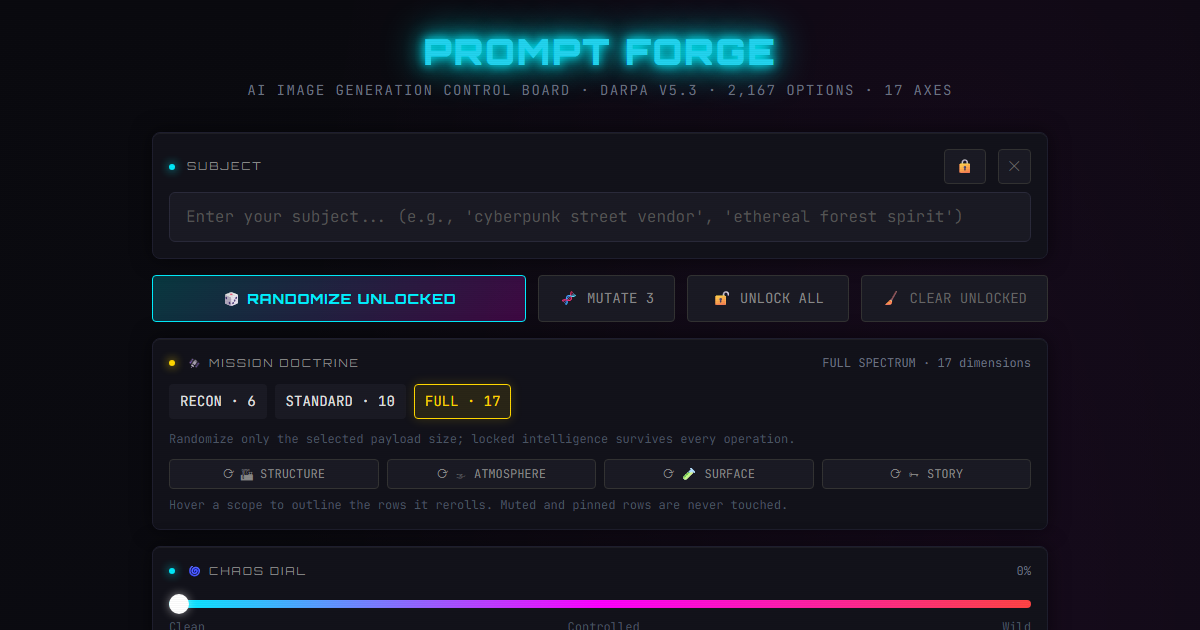
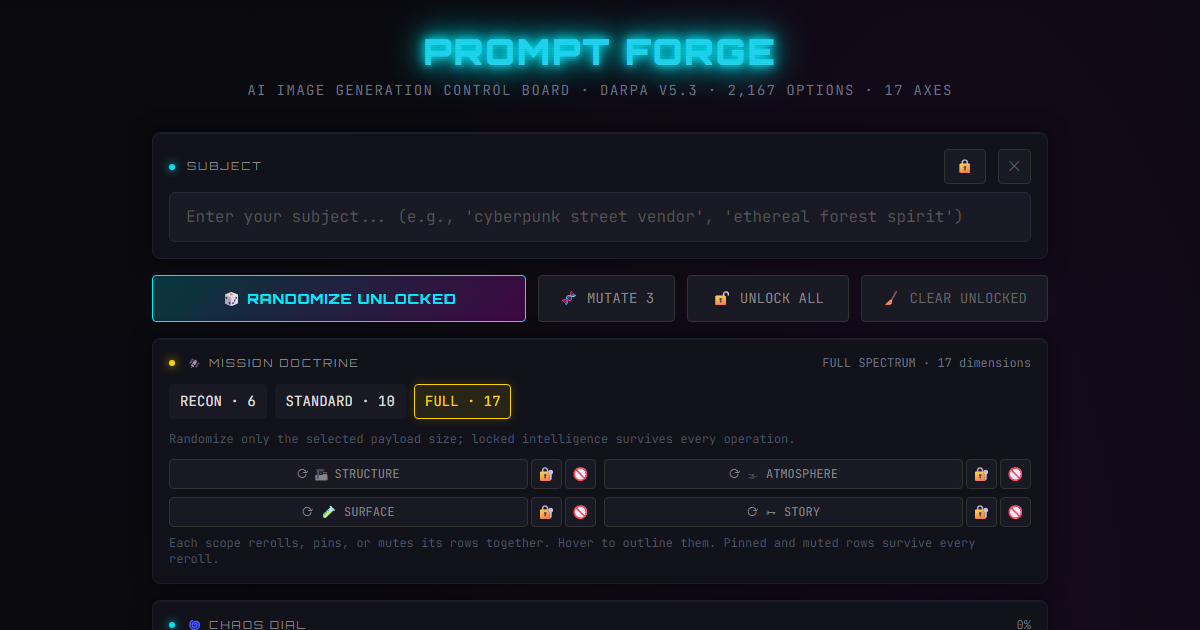
Give each cluster scope pin and mute, not just reroll
A scope could only roll. If you wanted an image carrying no story at all
— no narrative, no action, no figure, no wardrobe — you muted four rows
by hand and hoped you had not missed one, every time.

Each scope now carries the same three verbs a single row does: reroll,
pin, mute. What you can do to one axis you can do to four at once, which
is what a scope was for.

Both operators are toggles. Clicking the engaged one returns the scope to
live, so a scope cannot be stranded held and no fifth control is needed
to undo the other two.

The awkward case is a scope holding a blank row, since setCategoryState
refuses to pin a blank — pinning would otherwise leave half a scope live
and the button lying about what it did. Such rows are held blank instead,
which is not a special case but the rule the board already follows: a
lock on an empty row presents as muting it. clusterStateOf reads `pinned`
as "nothing here is still live" for the same reason, so a mixed scope
reads as mixed and neither operator claims it.

Layout: three controls across four scopes does not fit four-across until
2xl. Below that it is two columns, which is roomier than the four it
replaced. At the widest breakpoint the longest label clears its column by
seven pixels — it was one before the operators were narrowed, and emoji
metrics differ between platforms, so that padding is load-bearing rather
than cosmetic.

Verified: muting Story survives randomize, its own reroll, and a
[…]

Changed region(s): [[0.1233, 0.7238, 0.8633, 1.0], [0.7708, 0.7238, 0.8633, 0.8444], [0.4625, 0.9952, 0.555, 1.0]]

diff --git a/index.html b/index.html
@@ -238,6 +238,38 @@
       box-shadow: 0 0 8px rgba(124, 138, 168, 0.6);
     }
 
+    /*
+     * A scope carries the same three verbs a single row does — reroll, pin,
+     * mute — so what you can do to one axis you can do to four at once.
+     * The reroll button takes the remaining width; the two operators stay a
+     * fixed glyph wide.
+     */
+    .cluster-group {
+      display: flex;
+      gap: 3px;
+      min-width: 0;
+    }
+
+    .cluster-group .cluster-btn {
+      flex: 1 1 auto;
+      min-width: 0;
+      overflow: hidden;
+      text-overflow: ellipsis;
+      white-space: nowrap;
+    }
+
+    /*
+     * Kept narrow deliberately. At the four-across breakpoint the longest label
+     * (ATMOSPHERE) clears its column by only a few pixels, and emoji metrics
+     * differ between platforms — the padding here is the margin that keeps it
+     * from truncating on someone else's machine.
+     */
+    .cluster-op {
+      flex: 0 0 auto;
+      padding: 6px 5px;
+      line-height: 1;
+    }
+
     /* Cluster hover preview: show the blast radius before committing. */
     .cluster-btn.previewing {
       color: var(--neon-magenta);
@@ -711,13 +743,29 @@
         <button class="btn doctrine-btn active" id="density-full" onclick="setPayloadDensity('full')">FULL · 17</button>
       </div>
       <p class="text-xs text-gray-600 mb-3">Randomize only the selected payload size; locked intelligence survives every operation.</p>
-      <div class="grid grid-cols-2 md:grid-cols-4 gap-2">
-        <button class="btn btn-random text-xs cluster-btn" id="cluster-structure" onclick="rerollCluster('structure')" onmouseenter="previewCluster('structure')" onmouseleave="clearClusterPreview()" onfocus="previewCluster('structure')" onblur="clearClusterPreview()">⟳ 🏗 STRUCTURE</button>
-        <button class="btn btn-random text-xs cluster-btn" id="cluster-atmosphere" onclick="rerollCluster('atmosphere')" onmouseenter="previewCluster('atmosphere')" onmouseleave="clearClusterPreview()" onfocus="previewCluster('atmosphere')" onblur="clearClusterPreview()">⟳ 🌫 ATMOSPHERE</button>
-        <button class="btn btn-random text-xs cluster-btn" id="cluster-surface" onclick="rerollCluster('surface')" onmouseenter="previewCluster('surface')" onmouseleave="clearClusterPreview()" onfocus="previewCluster('surface')" onblur="clearClusterPreview()">⟳ 🧪 SURFACE</button>
-        <button class="btn btn-random text-xs cluster-btn" id="cluster-story" onclick="rerollCluster('story')" onmouseenter="previewCluster('story')" onmouseleave="clearClusterPreview()" onfocus="previewCluster('story')" onblur="clearClusterPreview()">⟳ 🗝 STORY</button>
+      <div class="grid grid-cols-1 sm:grid-cols-2 2xl:grid-cols-4 gap-2">
+        <div class="cluster-group" data-cluster="structure">
+          <button class="btn btn-random text-xs cluster-btn" id="cluster-structure" onclick="rerollCluster('structure')" onmouseenter="previewCluster('structure')" onmouseleave="clearClusterPreview()" onfocus="previewCluster('structure')" onblur="clearClusterPreview()">⟳ 🏗 STRUCTURE</button>
+          <button class="btn btn-lock cluster-op" id="cluster-lock-structure" onclick="lockCluster('structure')" onmouseenter="previewCluster('structure')" onmouseleave="clearClusterPreview()" onfocus="previewCluster('structure')" onblur="clearClusterPreview()">🔐</button>
+          <button class="btn btn-mute cluster-op" id="cluster-mute-structure" onclick="muteCluster('structure')" onmouseenter="previewCluster('structure')" onmouseleave="clearClusterPreview()" onfocus="previewCluster('structure')" onblur="clearClusterPreview()">🚫</button>
+        </div>
+        <div class="cluster-group" data-cluster="atmosphere">
+          <button class="btn btn-random text-xs cluster-btn" id="cluster-atmosphere" onclick="rerollCluster('atmosphere')" onmouseenter="previewCluster('atmosphere')" onmouseleave="clearClusterPreview()" onfocus="previewCluster('atmosphere')" onblur="clearClusterPreview()">⟳ 🌫 ATMOSPHERE</button>
+          <button class="btn btn-lock cluster-op" id="cluster-lock-atmosphere" onclick="lockCluster('atmosphere')" onmouseenter="previewCluster('atmosphere')" onmouseleave="clearClusterPreview()" onfocus="previewCluster('atmosphere')" onblur="clearClusterPreview()">🔐</button>
+          <button class="btn btn-mute cluster-op" id="cluster-mute-atmosphere" onclick="muteCluster('atmosphere')" onmouseenter="previewCluster('atmosphere')" onmouseleave="clearClusterPreview()" onfocus="previewCluster('atmosphere')" onblur="clearClusterPreview()">🚫</button>
+        </div>
+        <div class="cluster-group" data-cluster="surface">
+          <button class="btn btn-random text-xs cluster-btn" id="cluster-surface" onclick="rerollCluster('surface')" onmouseenter="previewCluster('surface')" onmouseleave="clearClusterPreview()" onfocus="previewCluster('surface')" onblur="clearClusterPreview()">⟳ 🧪 SURFACE</button>
+          <button class="btn btn-lock cluster-op" id="cluster-lock-surface" onclick="lockCluster('surface')" onmouseenter="previewCluster('surface')" onmouseleave="clearClusterPreview()" onfocus="previewCluster('surface')" onblur="clearClusterPreview()">🔐</button>
+          <button class="btn btn-mute cluster-op" id="cluster-mute-surface" onclick="muteCluster('surface')" onmouseenter="previewCluster('surface')" onmouseleave="clearClusterPreview()" onfocus="previewCluster('surface')" onblur="clearClusterPreview()">🚫</button>
+        </div>
+        <div class="cluster-group" data-cluster="story">
+          <button class="btn btn-random text-xs cluster-btn" id="cluster-story" onclick="rerollCluster('story')" onmouseenter="previewCluster('story')" onmouseleave="clearClusterPreview()" onfocus="previewCluster('story')" onblur="clearClusterPreview()">⟳ 🗝 STORY</button>
+          <button class="btn btn-lock cluster-op" id="cluster-lock-story" onclick="lockCluster('story')" onmouseenter="previewCluster('story')" onmouseleave="clearClusterPreview()" onfocus="previewCluster('story')" onblur="clearClusterPreview()">🔐</button>
+          <button class="btn btn-mute cluster-op" id="cluster-mute-story" onclick="muteCluster('story')" onmouseenter="previewCluster('story')" onmouseleave="clearClusterPreview()" onfocus="previewCluster('story')" onblur="clearClusterPreview()">🚫</button>
+        </div>
       </div>
-      <p class="text-xs text-gray-600 mt-2" id="clusterHint">Hover a scope to outline the rows it rerolls. Muted and pinned rows are never touched.</p>
+      <p class="text-xs text-gray-600 mt-2" id="clusterHint">Each scope rerolls, pins, or mutes its rows together. Hover to outline them. Pinned and muted rows survive every reroll.</p>
     </div>
 
     <!-- Chaos Dial & Output Mode -->
@@ -2794,6 +2842,11 @@
         muteBtn.classList.toggle('active', state === 'muted');
         muteBtn.title = MUTE_BUTTON_TITLES[state];
       }
+
+      // A scope's state is derived from its rows, so changing one row can
+      // change what its scope reads as. Reconcile here rather than asking every
+      // caller to remember.
+      syncClusterButtons();
     }
 
     function rigChipTitle(key, state) {
@@ -2874,12 +2927,69 @@
     // CLUSTER SCOPES
     // ============================================
 
+    /*
+     * A scope reads as one of the three rig states, or as mixed.
+     *
+     * `pinned` means nothing in the scope is still live — every row is held,
+     * whether at a value or blank. That is the same equivalence the rest of the
+     * board uses: locking a row that holds no value presents as muting it.
+     */
+    function clusterStateOf(name) {
+      const keys = (categoryClusters[name] || []).filter(key => categories[key]);
+      if (!keys.length) return 'live';
+      const states = keys.map(key => categoryStateOf(categories[key]));
+      if (states.every(state => state === 'muted')) return 'muted';
+      if (states.every(state => state === 'live')) return 'live';
+      if (states.every(state => state !== 'live')) return 'pinned';
+      return 'mixed';
+    }
+
+    function setClusterState(name, target) {
+      const keys = (categoryClusters[name] || []).filter(key => categories[key]);
+      // Clicking the engaged operator releases the scope, so one button both
+      // applies and undoes and no scope can be stranded held.
+      const next = clusterStateOf(name) === target ? 'live' : target;
+      keys.forEach(key => {
+        // setCategoryState refuses to pin a blank row, which would otherwise
+        // leave half a scope live. Hold it blank instead — same thing the lock
+        // button does to a single empty row.
+        if (next === 'pinned' && !categories[key].value) setCategoryState(key, 'muted');
+        else setCategoryState(key, next);
+      });
+      syncClusterButtons();
+      renderRig();
+      updatePreview();
+    }
+
+    function lockCluster(name) { setClusterState(name, 'pinned'); }
+    function muteCluster(name) { setClusterState(name, 'muted'); }
+
     function syncClusterButtons() {
       Object.entries(categoryClusters).forEach(([name, keys]) => {
+        const members = keys.filter(key => categories[key]);
+        const labels = members.map(key => categories[key].label);
+        const noun = `${labels.length} ${labels.length === 1 ? 'axis' : 'axes'}`;
+        const list = labels.join(' · ');
+        const state = clusterStateOf(name);
+
         const btn = document.getElementById(`cluster-${name}`);
-        if (!btn) return;
-        const labels = keys.filter(key => categories[key]).map(key => categories[key].label);
-        btn.title = `Reroll ${labels.length} ${labels.length === 1 ? 'axis' : 'axes'}: ${labels.join(' · ')}`;
+        if (btn) btn.title = `Reroll ${noun}: ${list}`;
+
+        const lockBtn = document.getElementById(`cluster-lock-${name}`);
+        if (lockBtn) {
+          lockBtn.classList.toggle('active', state === 'pinned');
+          lockBtn.title = state === 'pinned'
+            ? `Held: ${list} — click to return the scope to live`
+            : `Hold ${noun} at their current values: ${list}`;
+        }
+
+        const muteBtn = document.getElementById(`cluster-mute-${name}`);
+        if (muteBtn) {
+          muteBtn.classList.toggle('active', state === 'muted');
+          muteBtn.title = state === 'muted'
+            ? `Muted: ${list} — click to return the scope to live`
+            : `Blank ${noun} and hold them blank, so the image carries none of them: ${list}`;
+        }
       });
     }
 

diff --git a/CHANGELOG.md b/CHANGELOG.md
@@ -1,5 +1,12 @@
 Changelog
 All notable changes to Prompt Forge are documented here.
+[Unreleased]
+Added
+Added pin and mute operators to each cluster scope. A scope previously only rerolled; it now carries the same three verbs a single row does, so what you can do to one axis you can do to four at once. Muting Story holds narrative, action, figure and wardrobe blank through every operation, which is how you build an image that carries no story at all.
+Both operators are toggles — clicking the engaged one returns the scope to live, so no scope can be stranded held.
+Locking a scope that contains a blank row holds that row blank rather than refusing, matching the existing rule that locking an empty row presents as muting it.
+Cluster operator titles are generated from live membership and current state, so a label cannot drift from what the button does.
+
 [5.3.0] — 2026-07-26
 Added
 Added eight Forge Cards in a warm-figure register the first twenty had no room for: Komorebi, Negative Fill, Waterline, Salt and Gold, Poolside Noon, Rim Light Confession, Light Through Water, and Lido 1972. Every one specifies a Figure pose and a Color Logic relationship, the two axes that most distinguish this board, and several deliberately leave axes open.

diff --git a/README.md b/README.md
@@ -26,7 +26,8 @@ It is a single static HTML file. There is no account, backend, build step, or se
 - **Mutate 3** creates controlled variation without destroying the whole composition.
 - **Signal Rig**: set every axis to **live**, **pinned**, or **muted** before you forge. Muted axes stay blank through everything.
 - **MUTE BLANKS / PIN FILLED / ALL LIVE** configure the whole rig in one move.
-- **Cluster rerolls** target Structure, Atmosphere, Surface, or Story. The four scopes partition the seventeen axes, and hovering one outlines exactly the rows it will change.
+- **Cluster scopes** target Structure, Atmosphere, Surface, or Story. The four scopes partition the seventeen axes, and hovering one outlines exactly the rows it will change.
+- Each scope carries **⟳ reroll, 🔐 pin, and 🚫 mute** — the same three verbs a single row has. Mute Story to build an image that carries no narrative, action, figure or wardrobe at all. Both operators toggle back to live.
 - **Option Radar** searches built-in and custom signals.
 - **Chaos Dial** provides a visible, pinned modifier.
 - **Universal, Midjourney, and SDXL** output formats.
